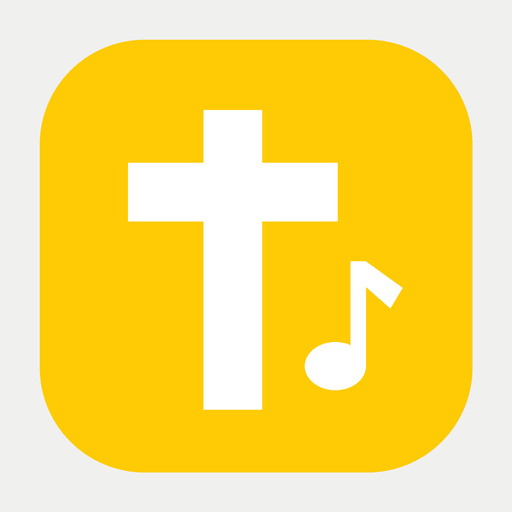
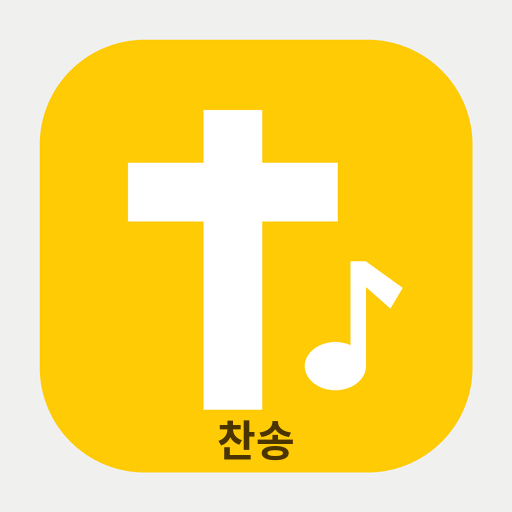
Add files via upload

Changed region(s): [[0.4062, 0.8125, 0.5938, 0.9062]]

diff --git a/index.html b/index.html
@@ -619,7 +619,7 @@
 
   <script>
     // ================== 앱 버전 ==================
-    const APP_VERSION = 'v9.8';
+    const APP_VERSION = 'v9.9';
     const APP_BUILD   = '2026-11-25';
     const APP_NAME    = 'SK- 새찬송가앱';
 
@@ -773,7 +773,7 @@
     function rebuildIndex() {
       songIndex = new Map();
       hymns.forEach(h => { h.book = 'hymn'; songIndex.set(h.num, h); });
-      ccmAll = ccms.concat(myCcms).sort((a, b) => a.title.localeCompare(b.title, 'ko'));
+      ccmAll = ccms.concat(ownerMode ? myCcms : []).sort((a, b) => a.title.localeCompare(b.title, 'ko'));
       ccmAll.forEach((c, i) => { c.book = 'ccm'; c.no = i + 1; songIndex.set(c.id, c); });
       enAll = ens.slice().sort((a, b) => a.title.localeCompare(b.title, 'en'));
       enAll.forEach((c, i) => { c.book = 'en'; c.no = i + 1; songIndex.set(c.id, c); });
@@ -951,7 +951,7 @@
     }
 
     function esc(s) {
-      return s.replace(/&/g, '&amp;').replace(/</g, '&lt;').replace(/>/g, '&gt;').replace(/"/g, '&quot;');
+      return String(s).replace(/&/g, '&amp;').replace(/</g, '&lt;').replace(/>/g, '&gt;').replace(/"/g, '&quot;').replace(/'/g, '&#39;');
     }
     function hlTitle(title, q) {
       if (!q || isChosungQuery(q)) return esc(title);
@@ -1031,7 +1031,7 @@
             ${snip ? `<div class="hymn-snip">${snip}</div>` : sub}
           </div>
           <div class="star-icon ${favorites.some(f => String(f) === String(k)) ? 'active' : ''}"
-               onclick="event.stopPropagation(); toggleFavKey(${JSON.stringify(k)}, this)" title="즐겨찾기">★</div>
+               onclick="event.stopPropagation(); toggleFavKey(${esc(JSON.stringify(k))}, this)" title="즐겨찾기">★</div>
         `;
         item.dataset.num = k;
         if (favEdit) attachDrag(item);
@@ -1510,10 +1510,10 @@
       const actions = document.createElement('div');
       actions.className = 'pl-actions';
       actions.innerHTML = `
-        <button class="primary" onclick="plStart('${kind}','${id}')">▶ 이 순서로 보기</button>
-        <button class="primary" onclick="openAddSongs('${kind}','${id}')">＋ 곡 추가</button>
-        <button onclick="plRename('${kind}','${id}')">✏ 이름변경</button>
-        <button id="plDelBtn" onclick="plDelete('${kind}','${id}')">${pendingDelete ? '❗ 정말 삭제?' : '🗑 삭제'}</button>
+        <button class="primary" onclick="plStart(${esc(JSON.stringify(kind))},${esc(JSON.stringify(id))})">▶ 이 순서로 보기</button>
+        <button class="primary" onclick="openAddSongs(${esc(JSON.stringify(kind))},${esc(JSON.stringify(id))})">＋ 곡 추가</button>
+        <button onclick="plRename(${esc(JSON.stringify(kind))},${esc(JSON.stringify(id))})">✏ 이름변경</button>
+        <button id="plDelBtn" onclick="plDelete(${esc(JSON.stringify(kind))},${esc(JSON.stringify(id))})">${pendingDelete ? '❗ 정말 삭제?' : '🗑 삭제'}</button>
       `;
       list.appendChild(actions);
 
@@ -1528,9 +1528,9 @@
         row.innerHTML = `
           <div class="pl-order">${idx + 1}</div>
           <div class="pl-title">${h ? esc(songTitleFull(h)) : esc(String(num))}<small>${h ? (h.book === 'ccm' ? 'CCM' : '') : '（데이터 없음）'}</small></div>
-          <button class="pl-ctrl" onclick="event.stopPropagation(); plMove('${kind}','${id}',${idx},-1)">▲</button>
-          <button class="pl-ctrl" onclick="event.stopPropagation(); plMove('${kind}','${id}',${idx},1)">▼</button>
-          <button class="pl-ctrl" onclick="event.stopPropagation(); plRemove('${kind}','${id}',${idx})">✕</button>
+          <button class="pl-ctrl" onclick="event.stopPropagation(); plMove(${esc(JSON.stringify(kind))},${esc(JSON.stringify(id))},${idx},-1)">▲</button>
+          <button class="pl-ctrl" onclick="event.stopPropagation(); plMove(${esc(JSON.stringify(kind))},${esc(JSON.stringify(id))},${idx},1)">▼</button>
+          <button class="pl-ctrl" onclick="event.stopPropagation(); plRemove(${esc(JSON.stringify(kind))},${esc(JSON.stringify(id))},${idx})">✕</button>
         `;
         row.onclick = () => plOpen(kind, id, idx);
         list.appendChild(row);
@@ -1616,7 +1616,7 @@
       box.innerHTML = arr.map(h => {
         const k = keyOf(h);
         const has = p.nums.some(n => String(n) === String(k));
-        return `<button class="add-row${has ? ' has' : ''}" onclick="addSongHere('${String(k).replace(/'/g, "")}')">
+        return `<button class="add-row${has ? ' has' : ''}" onclick="addSongHere(${esc(JSON.stringify(String(k)))})">
           <span class="add-lab">${songLabel(h)}</span>
           <span class="add-t">${esc(h.title)}</span>
           <span class="add-chk">${has ? '✓ 담김' : '＋'}</span></button>`;
@@ -1849,7 +1849,8 @@
       const ks = Object.keys(myEdits).sort((a, b) => a - b);
       const rows = ks.length ? ks.map(k => {
         const h = hymns.find(x => String(x.num) === k);
-        return `<button class="m-row" onclick="closeModal();openHymnByNum(${k})">
+        const num = Number(k);
+        return `<button class="m-row" onclick="closeModal();openHymnByNum(${Number.isInteger(num) ? num : 0})">
           <b>${k}장</b> ${esc(h ? h.title : '')} <small>· ${myEdits[k].d}</small></button>`;
       }).join('') : '<div class="m-note">아직 고친 가사가 없습니다.</div>';
       openModal(`
@@ -2096,9 +2097,9 @@
         </div>
         <div class="m-btns">
           <button class="m-cancel" onclick="closeModal()">취소</button>
-          <button class="m-ok" onclick="saveMyCcm('${c ? c.id : ''}')">저장</button>
+          <button class="m-ok" onclick="saveMyCcm(${esc(JSON.stringify(c ? c.id : ''))})">저장</button>
         </div>
-        ${c ? `<div class="m-btns" style="margin-top:8px;"><button class="m-cancel" style="color:#dc2626;" onclick="deleteMyCcm('${c.id}')">🗑 이 곡 삭제</button></div>` : ''}
+        ${c ? `<div class="m-btns" style="margin-top:8px;"><button class="m-cancel" style="color:#dc2626;" onclick="deleteMyCcm(${esc(JSON.stringify(c.id))})">🗑 이 곡 삭제</button></div>` : ''}
         <div class="m-note" style="margin-top:12px;">
           이 곡은 <b>내 폰에만</b> 저장됩니다. 교인 모두에게 배포하려면
           ⚙ 설정 → <b>내 CCM 내보내기</b>로 텍스트를 뽑아 <code>ccm.json</code>에 반영하세요.
@@ -2343,18 +2344,21 @@
     }
     async function forceUpdate() {
       const b = $('updBar'); if (b) b.classList.remove('on');
+      if (!navigator.onLine) {
+        showToast('인터넷에 연결된 뒤 다시 눌러주세요');
+        return;
+      }
       showToast('최신 버전을 받는 중…');
+      // 이 앱의 캐시만 정리한다. 같은 GitHub Pages origin의 다른 프로젝트는 건드리지 않는다.
       try {
         if ('caches' in window) {
           const ks = await caches.keys();
-          await Promise.all(ks.map(k => caches.delete(k)));
-        }
-        if ('serviceWorker' in navigator) {
-          const rs = await navigator.serviceWorker.getRegistrations();
-          await Promise.all(rs.map(r => r.unregister()));
+          await Promise.all(ks.filter(k => k.startsWith('hymnal-')).map(k => caches.delete(k)));
         }
       } catch (e) { /* 무시 */ }
-      setTimeout(() => location.reload(true), 500);
+      // 등록을 해제하지 않고 업데이트만 확인한다 (해제하면 오프라인 복구가 어려워진다).
+      try { if (swReg) await swReg.update(); } catch (e) { /* 무시 */ }
+      setTimeout(() => location.reload(), 500);
     }
 
     async function copyBackup() {
@@ -2369,25 +2373,96 @@
       a.click();
       URL.revokeObjectURL(a.href);
     }
+    // ===== 백업 복원 입력 검증 =====
+    // 백업은 사용자가 직접 붙여넣는 신뢰할 수 없는 텍스트이므로
+    // 화면에 넣기 전에 ID/값을 화이트리스트로 정리한다.
+    const SAFE_ID = /^[A-Za-z0-9_-]{1,64}$/;
+    const uid = prefix => prefix + Date.now().toString(36) + Math.random().toString(36).slice(2, 7);
+    const safeId = (v, prefix) => (typeof v === 'string' && SAFE_ID.test(v)) ? v : uid(prefix);
+    const safeSongKey = v => {
+      if (typeof v === 'number' && Number.isInteger(v) && v >= 1 && v <= 645) return v;
+      if (typeof v === 'string' && SAFE_ID.test(v)) return v;
+      return null;
+    };
+    const safeText = (v, max) => (typeof v === 'string' ? v.slice(0, max) : '');
+    const safeNum = (v, min, max, fallback) => {
+      const n = Number(v);
+      return Number.isFinite(n) ? Math.min(max, Math.max(min, n)) : fallback;
+    };
+    function cleanGroup(p, kind) {
+      if (!p || typeof p !== 'object') return null;
+      return {
+        id: safeId(p.id, kind === 'cat' ? 'gc' : 'gp'),
+        name: safeText(p.name, 80) || (kind === 'cat' ? '새 분류' : '새 예배 순서'),
+        nums: Array.isArray(p.nums) ? p.nums.map(safeSongKey).filter(x => x !== null).slice(0, 500) : []
+      };
+    }
+    function cleanCcm(c) {
+      if (!c || typeof c !== 'object') return null;
+      return {
+        id: safeId(c.id, 'my'),
+        title: safeText(c.title, 200) || '(제목 없음)',
+        lyrics: safeText(c.lyrics, 20000),
+        tags: Array.isArray(c.tags) ? c.tags.filter(t => typeof t === 'string').map(t => t.slice(0, 40)).slice(0, 20) : [],
+        mine: true
+      };
+    }
+    function cleanEdits(e) {
+      const out = {};
+      Object.keys(e && typeof e === 'object' ? e : {}).forEach(k => {
+        const n = Number(k);
+        if (!Number.isInteger(n) || n < 1 || n > 645) return;
+        const v = e[k];
+        if (!v || typeof v !== 'object') return;
+        out[String(n)] = {
+          t: safeText(v.t, 200),
+          l: safeText(v.l, 20000),
+          d: /^\d{4}-\d{2}-\d{2}$/.test(v.d) ? v.d : new Date().toISOString().slice(0, 10)
+        };
+      });
+      return out;
+    }
+    function cleanExtras(x) {
+      const out = {};
+      Object.keys(x && typeof x === 'object' ? x : {}).forEach(k => {
+        if (!/^c\d+(s\d+)?$/.test(k)) return;
+        const arr = Array.isArray(x[k])
+          ? x[k].filter(n => Number.isInteger(n) && n >= 1 && n <= 645).slice(0, 645) : [];
+        if (arr.length) out[k] = arr;
+      });
+      return out;
+    }
+    const cleanKeys = arr => Array.isArray(arr)
+      ? arr.map(safeSongKey).filter(x => x !== null).slice(0, 500) : [];
+
     function restoreBackup() {
       const raw = $('restoreBox').value.trim();
       if (!raw) { showToast('백업 텍스트를 붙여넣어 주세요'); return; }
       try {
         const d = JSON.parse(raw);
         if (d.app !== 'hymnal-backup') throw 0;
-        if (Array.isArray(d.favs)) { favorites = d.favs; localStorage.setItem('hymn_favs', JSON.stringify(favorites)); }
-        if (Array.isArray(d.lists)) { playlists = d.lists; saveLists(); }
-        if (Array.isArray(d.cats)) { customCats = d.cats; saveCats(); }
-        if (d.extras && typeof d.extras === 'object') { catExtras = d.extras; saveCatExtras(); }
-        if (d.edits && typeof d.edits === 'object') { myEdits = d.edits; saveMyEdits(); applyMyEdits(); rebuildIndex(); }
-        if (Array.isArray(d.recent)) { recents = d.recent; localStorage.setItem('hymn_recent', JSON.stringify(recents)); }
-        if (Array.isArray(d.myccm)) { myCcms = d.myccm; saveMyCcms(); }
-        if (d.size) { fontSize = d.size; localStorage.setItem('hymn_size', d.size); }
-        if (d.projSize) localStorage.setItem('hymn_proj_size', d.projSize);
-        if (d.lineh) localStorage.setItem('hymn_lineh', d.lineh);
-        if (d.gap !== undefined) localStorage.setItem('hymn_gap', d.gap);
-        if (d.favSort) localStorage.setItem('hymn_fav_sort', d.favSort);
-        if (typeof d.dark === 'number') localStorage.setItem('hymn_dark', d.dark);
+
+        favorites = cleanKeys(d.favs);
+        recents = cleanKeys(d.recent);
+        playlists = (Array.isArray(d.lists) ? d.lists : []).map(x => cleanGroup(x, 'pl')).filter(Boolean);
+        customCats = (Array.isArray(d.cats) ? d.cats : []).map(x => cleanGroup(x, 'cat')).filter(Boolean);
+        catExtras = cleanExtras(d.extras);
+        myEdits = cleanEdits(d.edits);
+        myCcms = (Array.isArray(d.myccm) ? d.myccm : []).map(cleanCcm).filter(Boolean);
+
+        localStorage.setItem('hymn_favs', JSON.stringify(favorites));
+        localStorage.setItem('hymn_recent', JSON.stringify(recents));
+        saveLists(); saveCats(); saveCatExtras(); saveMyEdits(); saveMyCcms();
+        applyMyEdits(); rebuildIndex();
+
+        fontSize = Math.round(safeNum(d.size, 17, 48, 22));
+        localStorage.setItem('hymn_size', fontSize);
+        localStorage.setItem('hymn_proj_size', Math.round(safeNum(d.projSize, 60, 220, 100)));
+        localStorage.setItem('hymn_lineh', safeNum(d.lineh, 1.1, 2.4, 1.5).toFixed(2));
+        localStorage.setItem('hymn_gap', safeNum(d.gap, 0, 3, 1.2).toFixed(1));
+        localStorage.setItem('hymn_fav_sort', d.favSort === 'num' ? 'num' : 'custom');
+        localStorage.setItem('hymn_dark', d.dark === 1 ? '1' : '0');
+
         showToast('✅ 복원 완료');
         setTimeout(() => location.reload(), 600);
       } catch (e) { showToast('❌ 올바른 백업 데이터가 아닙니다'); }

diff --git a/sw.js b/sw.js
@@ -2,12 +2,13 @@
 // html/데이터는 '네트워크 우선': 파일을 올리면 다음 실행 때 자동으로 새 버전이 반영됩니다.
 // (인터넷이 없으면 저장해 둔 복사본으로 보여 줍니다)
 //
+// v9.9 변경점: 아이콘에 "찬송" 텍스트 추가, 마스커블 아이콘 분리, 캐시 정리 범위 제한
 // v4 변경점
 //  1) addAll → 개별 add + allSettled : 파일 하나가 404여도 나머지는 정상 캐시됨
 //  2) 페이지 요청 판별을 경로 정규식 → request.mode === 'navigate' 로 변경
 //     (https://계정.github.io/저장소/ 처럼 /index.html 이 안 붙는 주소에서도 새 버전이 내려옴)
 //  3) 오프라인 시 네비게이션 요청은 index.html 캐시로 폴백
-const CACHE = 'hymnal-v9-8';
+const CACHE = 'hymnal-v9-9';
 const ASSETS = [
   './',
   './index.html',
@@ -18,6 +19,7 @@ const ASSETS = [
   './manifest.webmanifest',
   './icon-192.png',
   './icon-512.png',
+  './icon-maskable-512.png',
   './apple-touch-icon.png'
 ];
 
@@ -33,7 +35,8 @@ self.addEventListener('install', e => {
 self.addEventListener('activate', e => {
   e.waitUntil(
     caches.keys()
-      .then(ks => Promise.all(ks.filter(k => k !== CACHE).map(k => caches.delete(k))))
+      // 같은 origin(계정.github.io)의 다른 프로젝트 캐시는 지우지 않는다
+      .then(ks => Promise.all(ks.filter(k => k.startsWith('hymnal-') && k !== CACHE).map(k => caches.delete(k))))
       .then(() => self.clients.claim())
   );
 });

diff --git a/README.md b/README.md
@@ -10,9 +10,18 @@
 |---|---|
 | `index.html` | 앱 본체 (화면 + 기능) |
 | `hymns.json` | 찬송가 645곡 (num / title / lyrics) |
+| `categories.json` | 주제 분류 (themes / tags) — 곡당 태그 **1개 사용** |
+| `ccm.json`, `en.json` | CCM / 영어 찬송 (내 모드에서만 표시) |
 | `manifest.webmanifest` | 앱 정보 (이름·아이콘·색상) — **확장자 `.txt` 붙으면 설치가 깨짐** |
 | `sw.js` | 오프라인 캐싱 (서비스 워커) |
-| `icon-192.png`, `icon-512.png`, `apple-touch-icon.png` | 앱 아이콘 |
+| `version.json` | 새 버전 알림용 버전 정보 |
+| `icon-192.png`, `icon-512.png` | 일반 앱 아이콘 (“찬송” 글자 포함) |
+| `icon-maskable-512.png` | 마스커블 아이콘 (원형/사각 마스크용, 배경 전체 노란색) |
+| `apple-touch-icon.png` | iPhone 홈 화면 아이콘 |
+
+> 아이콘 3종은 모두 같은 디자인이며, `icon-maskable-512.png`만 배경을 캔버스 전체로 채운 버전입니다.
+
+> ℹ **내 모드 안내**: 정적 웹앱이라 `ccm.json` / `en.json` 자체는 공개 URL에 있고, 기기에서 `hymn_owner` 값을 바꾸면 탭을 켤 수 있습니다. 내 모드는 **화면 분리용**이며 접근 통제용 보안 기능은 아닙니다. 콘텐츠를 반드시 숨겨야 하면 별도 인증/서버가 필요합니다.
 
 ## 📱 폰에 설치하기
 
@@ -23,25 +32,37 @@
 ## 🧩 주요 기능
 
 - 🔢 **번호 키패드** — 예배 중 숫자 빠르게 입력, 제목 실시간 확인 후 자동 열기
-- 🔍 **검색** — 번호 / 제목 / 가사 / 초성(ㅅㅈ), **가사로 걸리면 해당 가사 줄을 미리보기**로 표시 + 하이라이트
-- 📂 **분류별** — 공식 15개 대분류 + 소분류, 원하는 곡을 분류에 직접 추가 가능
+- 🔍 **검색** — 번호 / 제목 / 가사 / 초성(ㅅㅈ), 가사 검색 시 해당 줄 미리보기 + 하이라이트
+- 📂 **분류별** — 40개 주제 태그, 원하는 곡을 분류에 직접 추가 가능 (곡당 태그 1개 정책)
 - ✏ **내 분류** — 나만의 분류 만들기
-- 📋 **예배 순서** — 곡 묶음 저장·순서 변경·"이 순서로 보기"
-- 📽 **프로젝터 모드** — 한 절씩 큰 글씨, 화면 꺼짐 방지, **마지막 절에서 넘기면 예배 순서상 다음 곡으로 자동 연결**
+- 📋 **예배 순서** — 곡 묶음 저장·순서 변경·“이 순서로 보기”
+- 📽 **프로젝터 모드** — 절 단위 큰 글씨, 화면 꺼짐 방지, 예배순서 다음 곡 자동 연결
 - ⭐ **즐겨찾기** — `내 순서 / 번호순` 전환, ☰ 잡고 드래그로 정렬
-- 🔤 **글자 크기** — 슬라이더(16~40px) + **프로젝터 전용 크기(60~180%) 별도 저장**
+- 🔤 **글자 크기** — 슬라이더(17~48px) + 프로젝터 전용 크기(60~220%) 별도 저장
 - 📋 복사 / 🔗 공유 / 🌙 다크모드 / ⬅ 폰 뒤로가기 연동
-- 💾 백업·복원 — 기기 바꿀 때 즐겨찾기·예배순서·분류 이전
+- 💾 백업·복원 — 기기 바꿀 때 즐겨찾기·예배순서·분류·가사수정 이전
 
 ## 🔄 업데이트 방법 (가사 수정·기능 추가 후)
 
 1. 바뀐 파일을 저장소에 업로드
-2. **`sw.js` 상단 `CACHE = 'hymnal-v5-1'` 의 버전을 반드시 올리기** (예: `hymnal-v5-2`)
-3. 1~2분 뒤 Pages 반영 → 사용자는 앱을 한 번 열면 자동 갱신
+2. **`sw.js` 상단 `CACHE = 'hymnal-v9-9'` 의 버전을 반드시 올리기** (예: `hymnal-v9-10`)
+3. `index.html`의 `APP_VERSION`, `version.json`의 `version` 값도 같은 값으로 올리기
+4. 1~2분 뒤 Pages 반영 → 사용자는 앱을 한 번 열면 자동 갱신
 
-> 안 바뀌는 폰이 있으면: **⚙ 설정 맨 아래 버전 글씨를 7번 연속 탭** → 캐시를 비우고 최신 파일을 강제로 다시 받습니다.
+> 안 바뀌는 폰이 있으면: ⚙ 설정 맨 아래 버전 글씨를 7번 연속 탭 → 캐시를 비우고 최신 파일을 강제로 다시 받습니다.
+
+## 🔧 v9.9 수정 사항
+
+- CCM/영어 목록의 ★ 즐겨찾기 버튼이 동작하지 않던 문제 수정
+- 백업 복원 시 조작된 `id`로 스크립트가 실행될 수 있던 문제 수정 (입력 화이트리스트 검증)
+- `manifest.webmanifest` 추가 및 `orientation: any`, 마스커블 아이콘 분리
+- 프로젝터 모드와 충돌하던 세로 방향 고정 해제
+- “내 모드”를 껐을 때 내 CCM이 최근 목록에 남아 보이던 문제 수정
+- 캐시/서비스워커 초기화 범위를 이 앱(`hymnal-` 접두사)으로 제한
+- README의 버전·글자 크기 범위를 실제 코드와 일치시킴
+- 아이콘에 “찬송” 글자 추가
 
 ## 🔢 현재 버전
 
-**v5.1** (빌드 2026-09-28) · 캐시 `hymnal-v5-1`
+**v9.9** (빌드 2026-11-25) · 캐시 `hymnal-v9-9`
 설정(⚙) 맨 아래에서 버전·곡 수·온라인 상태·오프라인 저장 작동 여부를 확인할 수 있습니다.
